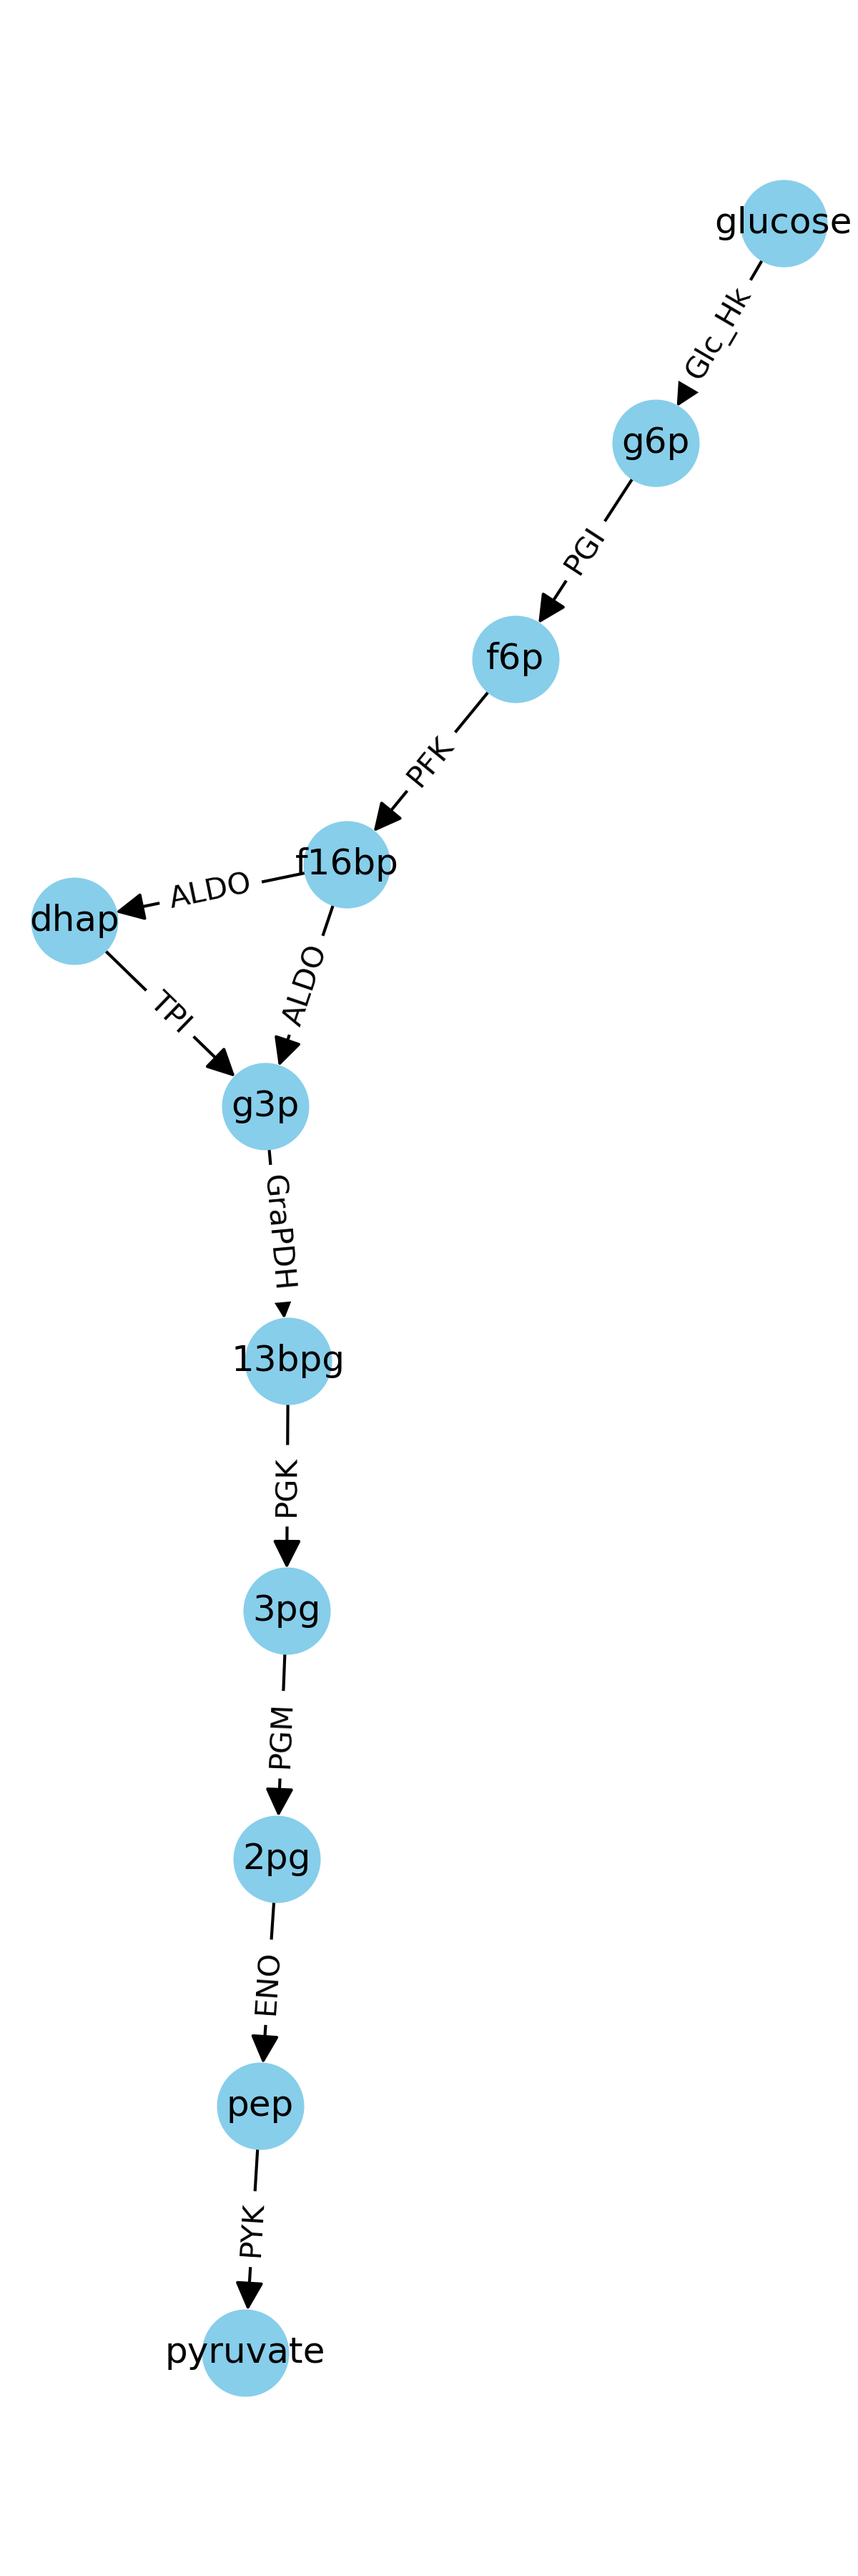
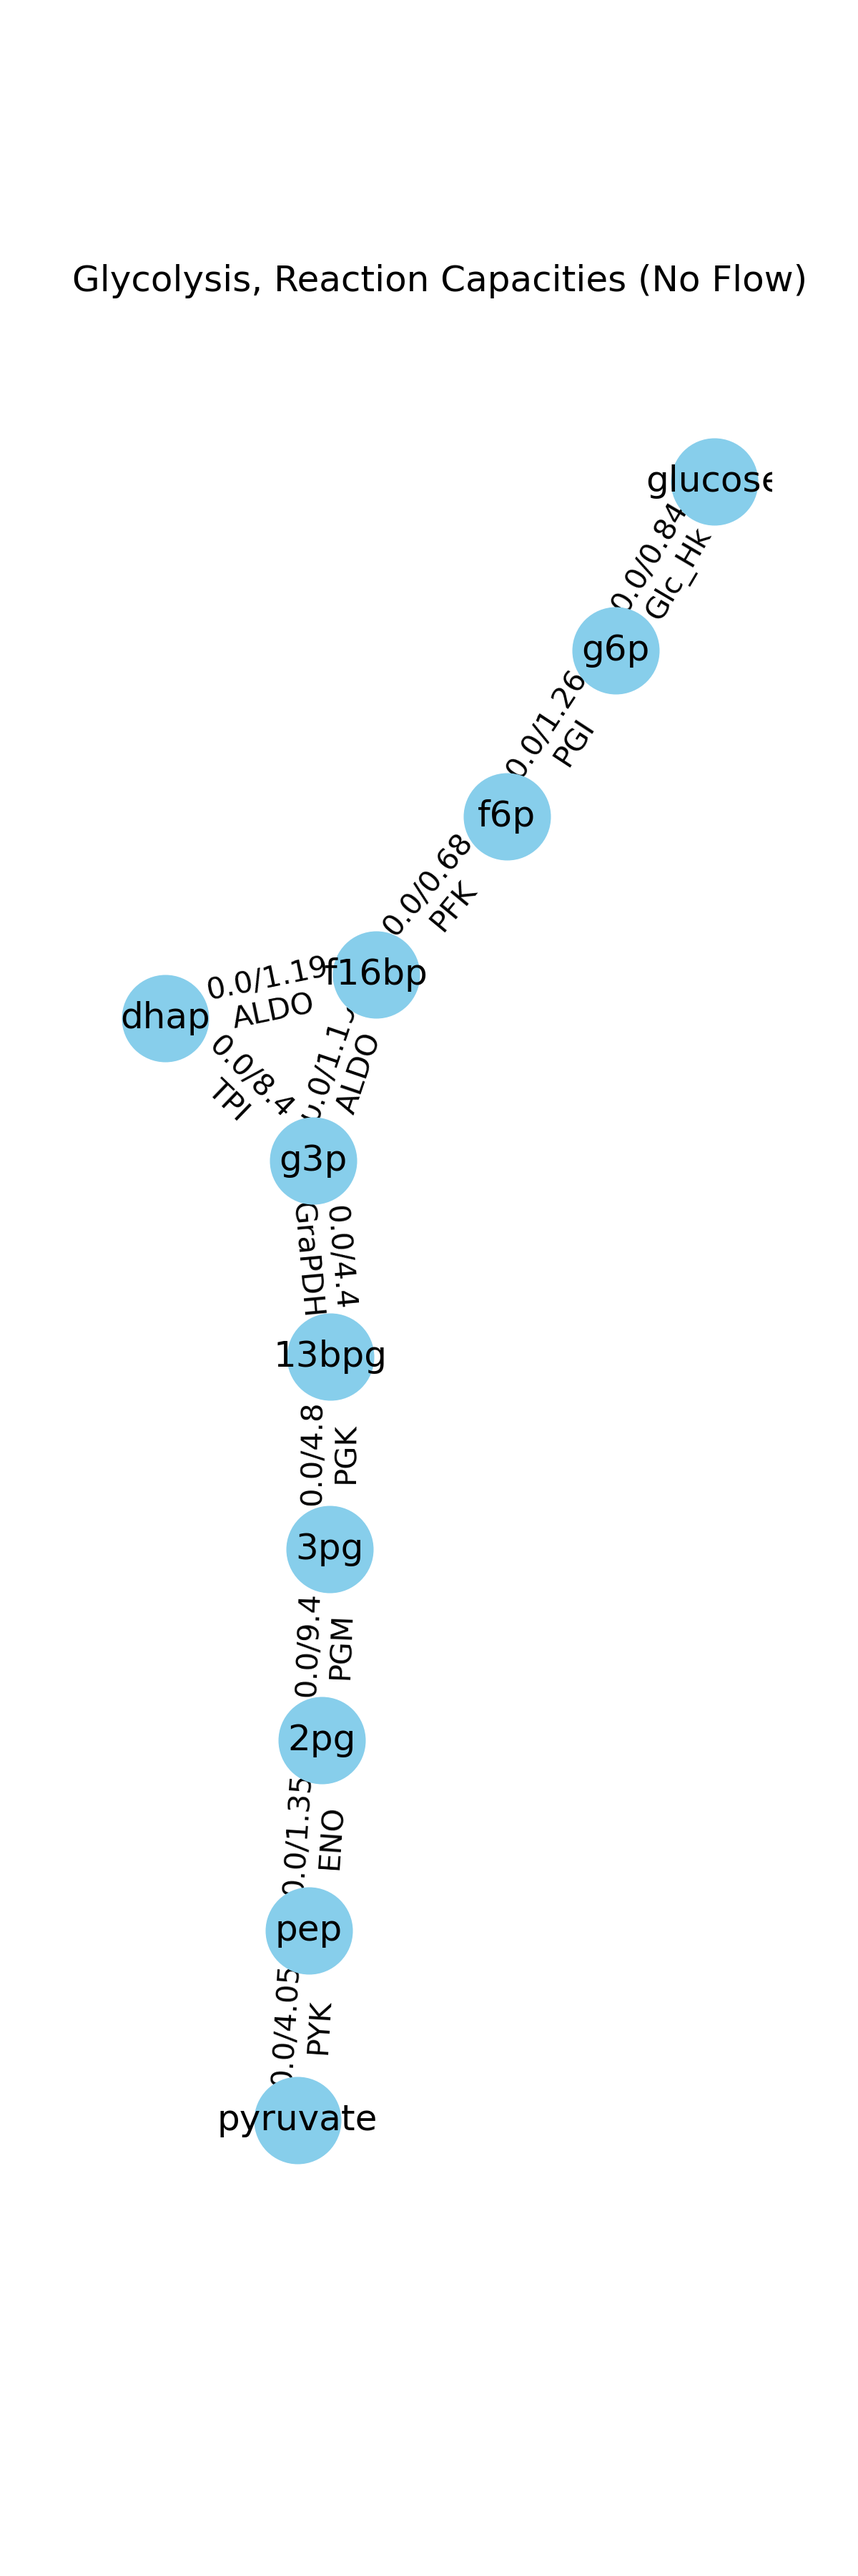
Update files

diff --git a/Data/rouhg.py b/Data/rouhg.py
@@ -4,7 +4,7 @@ from collections import deque
 import copy
 import matplotlib.pyplot as plt
 
-def network_graph(csv_path, return_png = False, png_filename = None):
+def network_graph(csv_path, return_png = False, png_filename = None, title=None):
     """
     Build a directed graph from the metabolic CSV file,
     with capacity constraints on edges.
@@ -22,25 +22,35 @@ def network_graph(csv_path, return_png = False, png_filename = None):
         )
 
     if return_png == True:
-        # pos = nx.spring_layout(G, k=2.0, iterations=100)
         pos = nx.kamada_kawai_layout(G, scale=8.0)
-        # edge_labels = {(u, v): f"{G[u][v]['flow']}/{G[u][v]['capacity']}\n{G[u][v]['enzyme']}" for u, v in G.edges()}
-        edge_labels = {(u, v): f"{G[u][v]['enzyme']}" for u, v in G.edges()}
+        edge_labels = {(u, v): f"{G[u][v]['flow']}/{G[u][v]['capacity']}\n{G[u][v]['enzyme']}" for u, v in G.edges()}
         plt.figure(figsize=(4, 12))
+        plt.title(title)
         nx.draw(G, pos, with_labels=True, node_color="skyblue", node_size=800, arrows=True, arrowsize=20)
         nx.draw_networkx_edge_labels(G, pos, edge_labels=edge_labels, font_color="black")
-        plt.savefig(png_filename, format="png", dpi=300)
+        plt.tight_layout()
+        plt.savefig(png_filename, format="png", dpi=300,bbox_inches='tight')
 
     return G
 
 
+def plot_graph(G, png_filename = None, title=None):
+    pos = nx.kamada_kawai_layout(G, scale=8.0)
+    edge_labels = {(u, v): f"{G[u][v]['flow']}/{G[u][v]['capacity']}\n{G[u][v]['enzyme']}" for u, v in G.edges()}
+    plt.figure(figsize=(4, 12))
+    plt.title(title)
+    nx.draw(G, pos, with_labels=True, node_color="yellow", node_size=800, arrows=True, arrowsize=20)
+    nx.draw_networkx_edge_labels(G, pos, edge_labels=edge_labels, font_color="black")
+    plt.tight_layout()
+    plt.savefig(png_filename, format="png", dpi=300, bbox_inches='tight')
+    
+
 def bfs_augmenting_path(G, source, sink):
     """
-    Find an augmenting path using breadth-first search over residual graph.
+    Find an augmenting path using breadth-first search.
     Visit nodes in FIFO (first-in, first-out) order, traversing only edges
-    with positive residual capacity (capacity - flow > 0).  Record node
-    predecessors so that augmenting path can be reconstructed once sink
-    is reached.
+    with positive residual capacity (capacity - flow > 0).  Record traversed
+    nodes so that augmenting path can be reconstructed once sink is reached.
     """
     visited = set()
     queue = deque([source])
@@ -85,28 +95,28 @@ def edmonds_karp_maxflow(G, source, sink):
     G_modified = copy.deepcopy(G)
     
     while True:
-        traversal = bfs_augmenting_path(G_modified, source, sink)  
-        if traversal is None:
-            break  # no more augmenting paths → done
+        augmenting_path = bfs_augmenting_path(G_modified, source, sink)  
+        if augmenting_path is None:
+            break  # no more augmenting paths
 
-        # Walk traversal backward (from sink to source), to reconstruct augmenting path
+        # Walk backward through the augmenting path (from sink to source), to reconstruct augmenting path
         path = []  # accumulate edge pairs
-        next_node = sink
-        while traversal[next_node] is not None:
-            current_node = traversal[next_node]
-            path.append((current_node, next_node))
-            next_node = current_node
-        path.reverse()
+        start_node = sink
+        while augmenting_path[start_node] is not None:
+            current_node = augmenting_path[start_node]
+            path.append((current_node, start_node))
+            start_node = current_node
+        path.reverse()  # augmenting path, from source to sink
 
         # Calculate bottleneck capacity on this path
         bottleneck = float("inf")
-        for current_node, next_node in path:
-            residual = G_modified[current_node][next_node]["capacity"] - G_modified[current_node][next_node]["flow"]  
+        for current_node, start_node in path:
+            residual = G_modified[current_node][start_node]["capacity"] - G_modified[current_node][start_node]["flow"]  
             bottleneck = min(bottleneck, residual)
 
         # Augment flow along the path
-        for current_node, next_node in path:
-            G_modified[current_node][next_node]["flow"] += bottleneck  # update flows on graph object
+        for current_node, start_node in path:
+            G_modified[current_node][start_node]["flow"] += bottleneck  # update flows on graph object
 
         max_flow += bottleneck
 
@@ -132,7 +142,7 @@ def min_cut(G, source):
     queue = deque([source])
     visited.add(source)
 
-    # BFS on residual network
+    # BFS
     while queue:
         current_node = queue.popleft()
         for next_node in G[current_node]:
@@ -153,23 +163,24 @@ def min_cut(G, source):
 
 
 def main():
-    G = network_graph("glycolysis_network.csv", return_png=True, png_filename="glycolysis.png") 
+    G = network_graph("glycolysis_network.csv", return_png=True, png_filename="glycolysis.png", title="Glycolysis, Reaction Capacities (No Flow)") 
 
     maxflow, G = edmonds_karp_maxflow(G, "glucose", "pyruvate")
-    print("\n=== MAX FLOW ===")
-    print("Maximum glycolytic flux:", maxflow)
 
-    print("\n=== FLOW ON EACH EDGE ===")
+    plot_graph(G, png_filename="glycolysis_updated.png", title="Glycolysis, Reaction Capacities (Max Flow)")
+
+    print("\nMaximum flux:", maxflow)
+
+    print("\nFlow on each edge:")
     for u, v in G.edges():
-        print(f"{u} -> {v} : flow = {G[u][v]['flow']} / {G[u][v]['capacity']}")
+        print(f"  {u} -> {v}, {G[u][v]['flow']} / {G[u][v]['capacity']}")
 
-    print("\n=== MIN CUT ===")
+    print("\nMin-cut (bottleneck) reactions:")
     S, T, cut_edges, rate_limiting_enzymes = min_cut(G, "glucose")
-    print("S (reachable):", S)
-    print("T (unreachable):", T)
-    print("Min-cut edges:", cut_edges)
-    print("Rate-limiting enzymes:", rate_limiting_enzymes)
-
+    print("  Pre-bottleneck reactions:", S)
+    print("  Post-bottleneck reactions:", T)
+    print("  Min-cut (bottleneck) reaction(s):", cut_edges)
+    print("  Rate-limiting enzyme(s):", rate_limiting_enzymes)
 
 if __name__ == "__main__":
     main()
